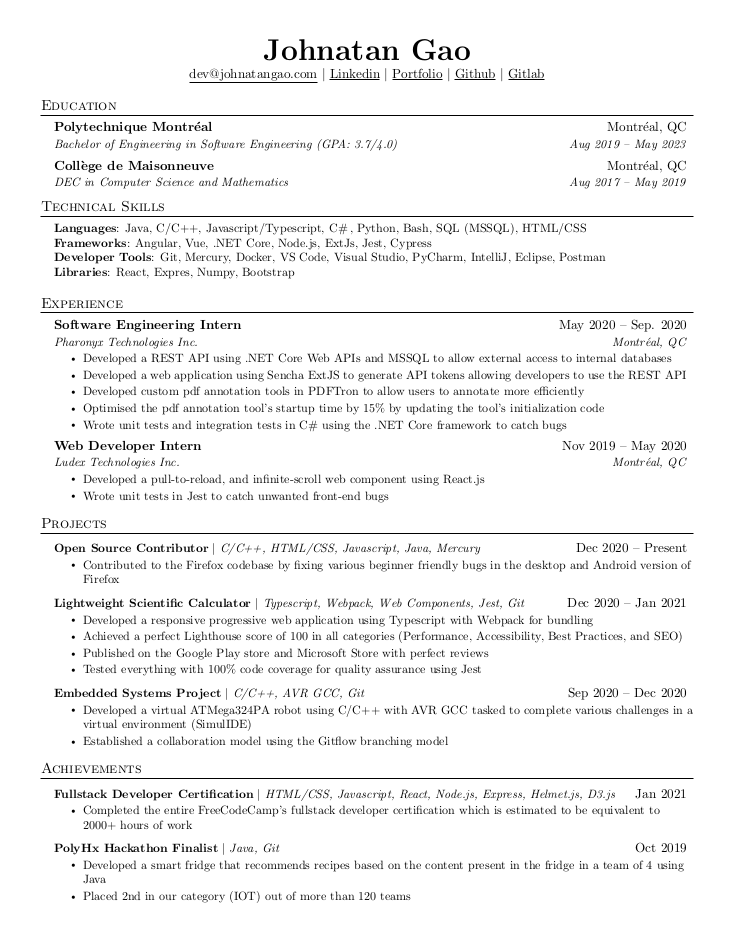
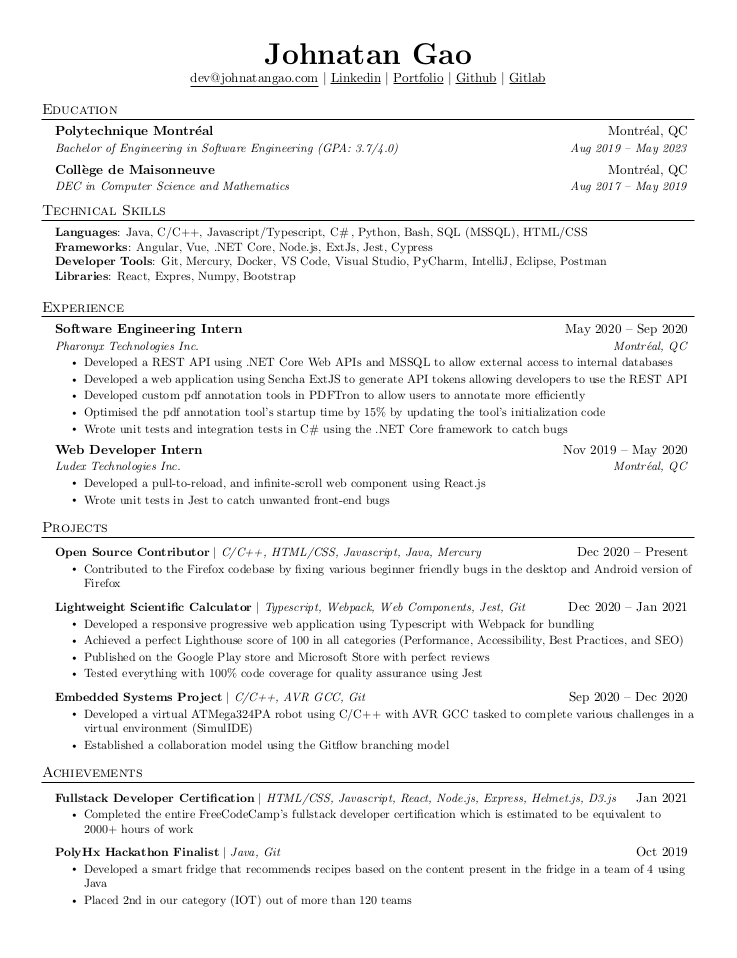
Update Readme

Changed region(s): [[0.0599, 0.0916, 0.9591, 0.9463], [0.2398, 0.0305, 0.7493, 0.0916], [0.4196, 0.4884, 0.4496, 0.5189]]

diff --git a/resume_en.tex b/resume_en.tex
@@ -148,7 +148,7 @@
   \resumeSubHeadingListStart
 
     \resumeSubheading
-      {Software Engineering Intern}{May 2020 -- Sep. 2020}
+      {Software Engineering Intern}{May 2020 -- Sep 2020}
       {Pharonyx Technologies Inc.}{Montréal, QC}
       \resumeItemListStart
         \resumeItem{Developed a REST API using .NET Core Web APIs and MSSQL to allow external access to internal databases}
